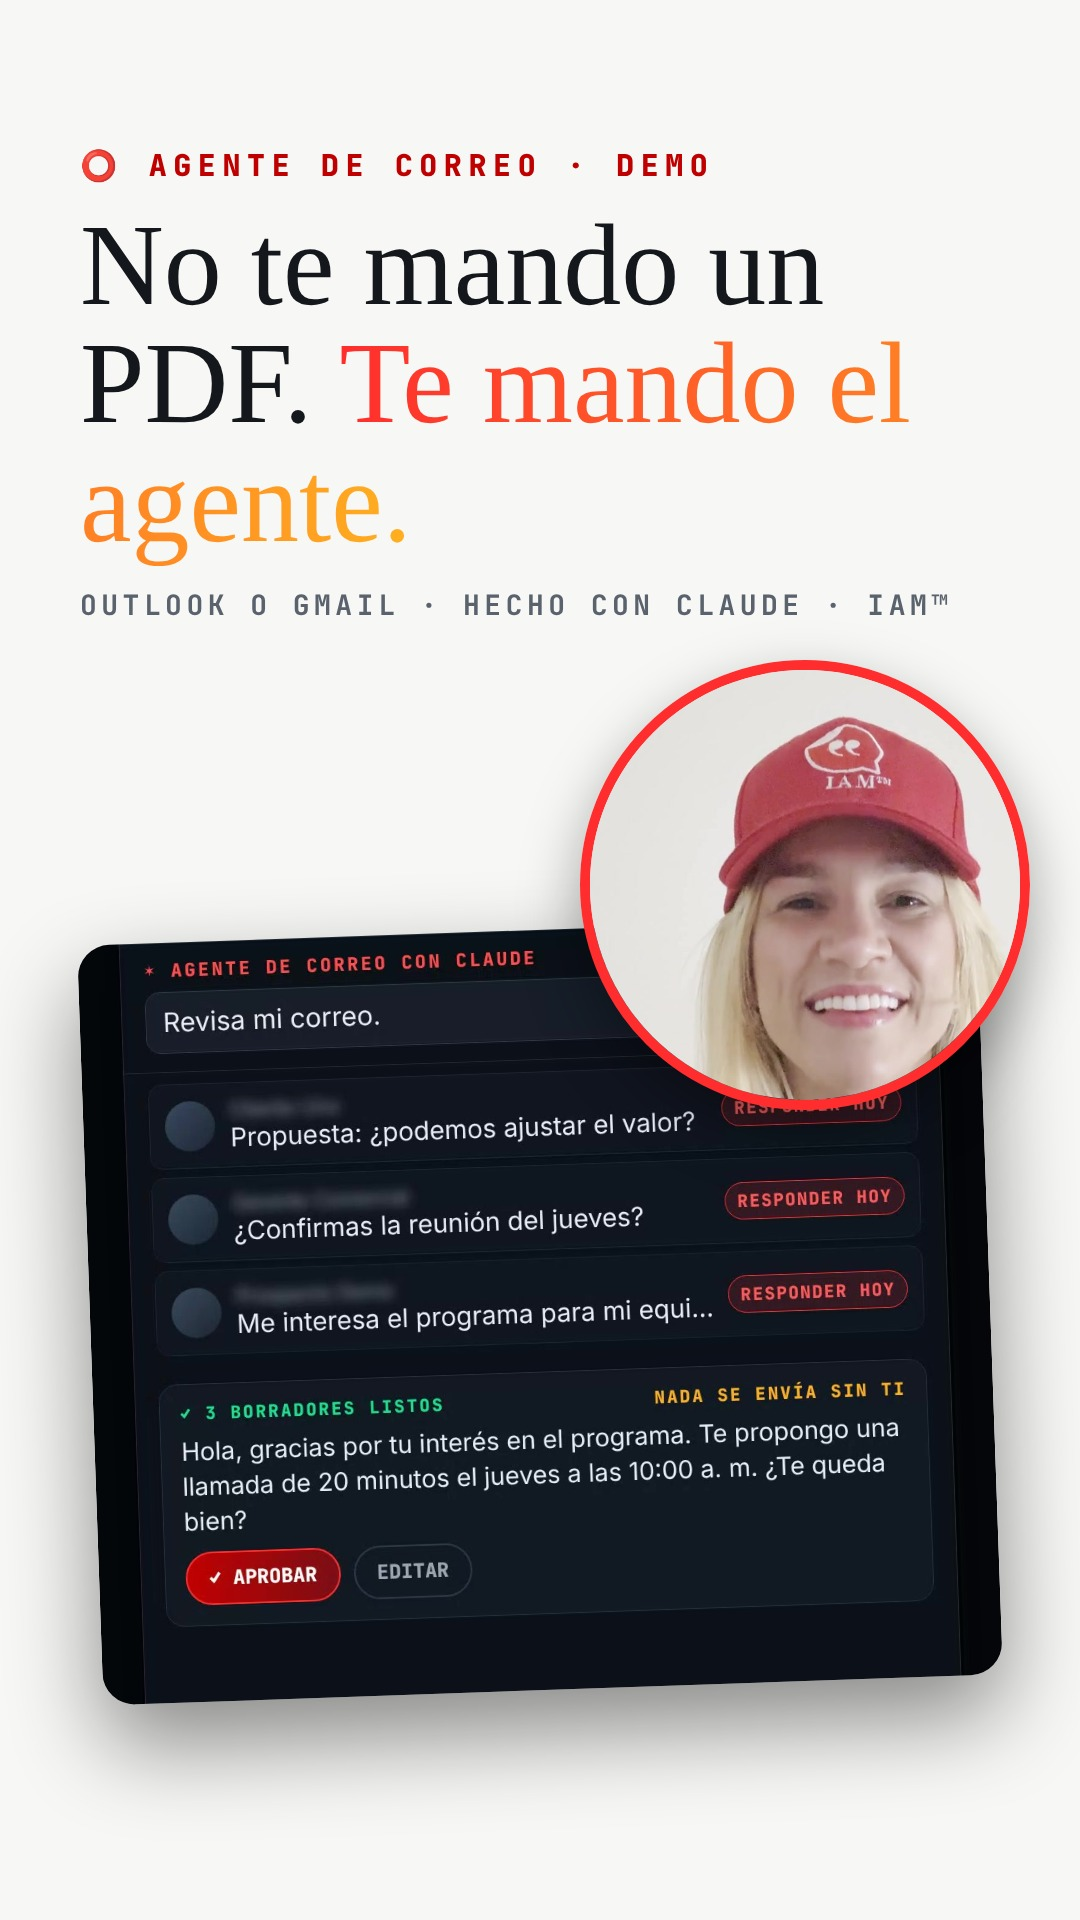
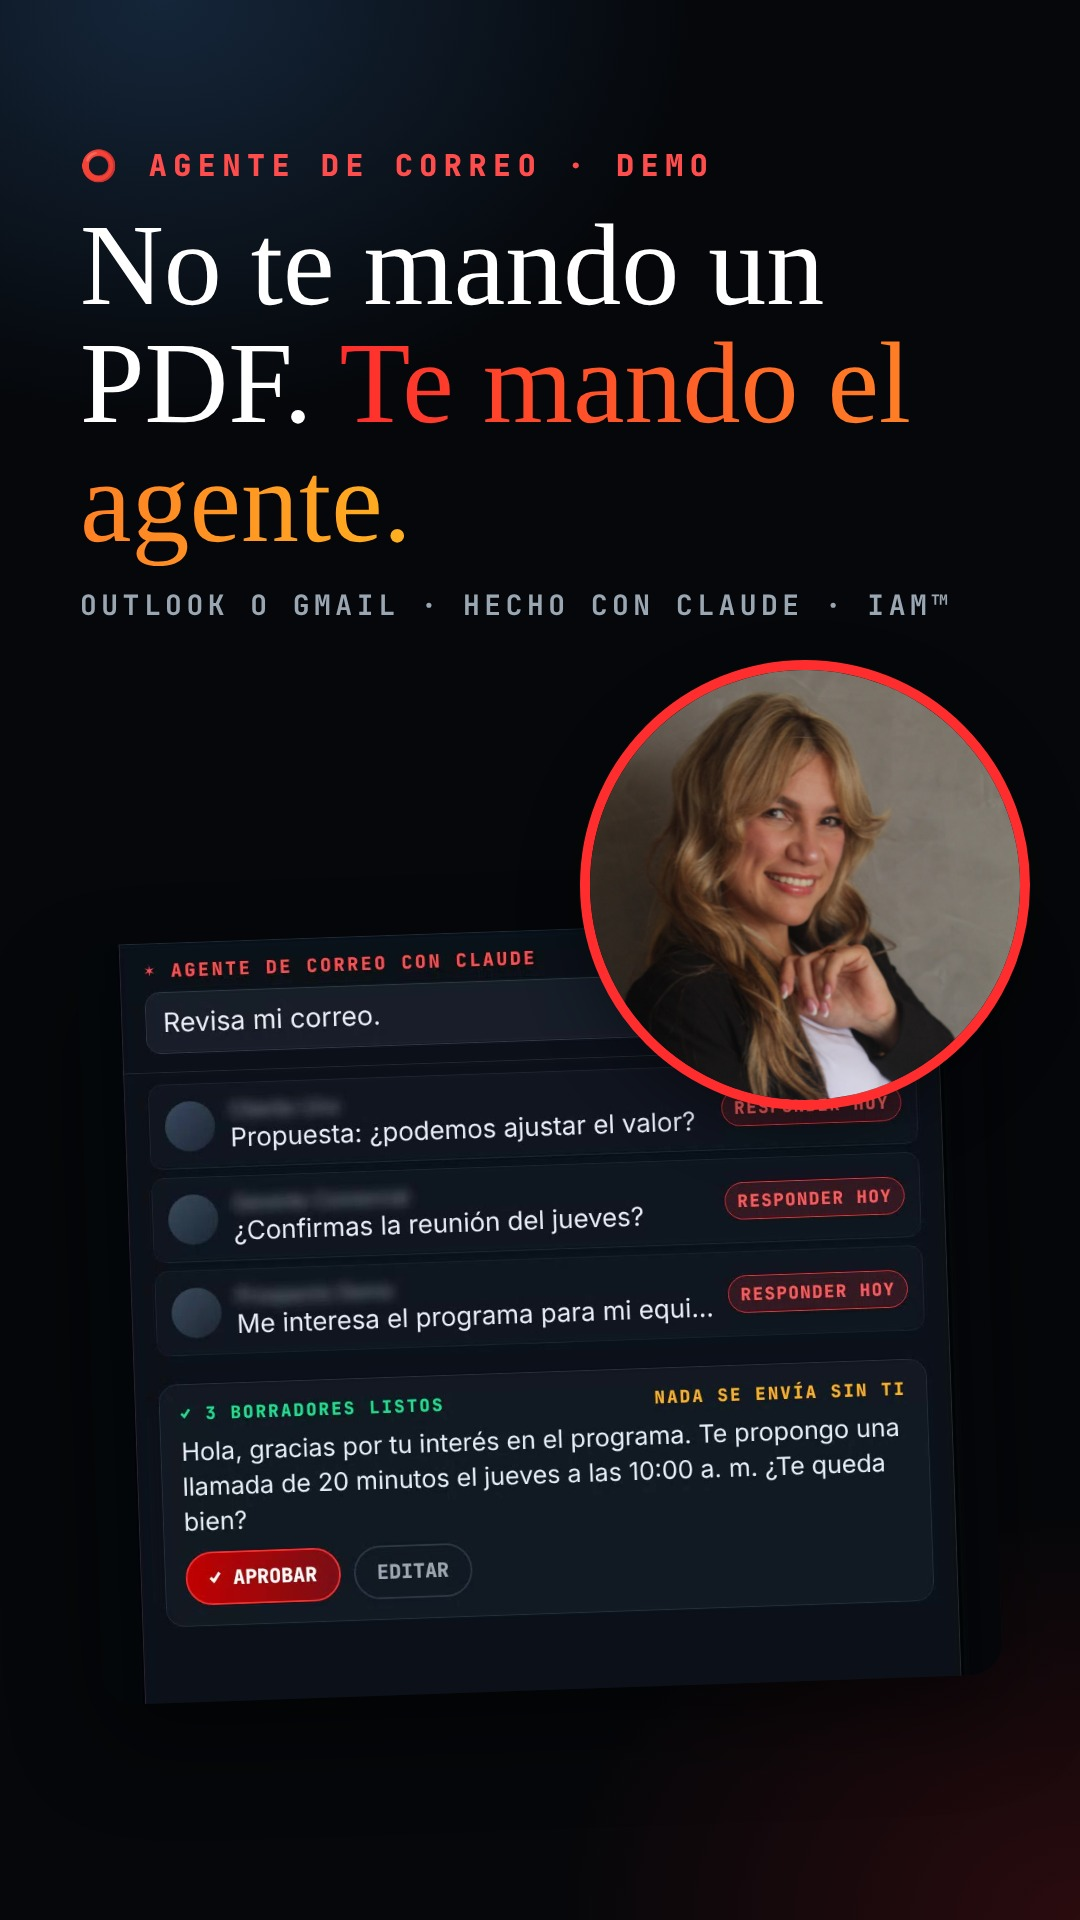
Portada CORREO: fondo oscuro y foto profesional de blazer negro para diferenciarla en el feed
Claude-Session: https://claude.ai/code/session_01NfWH1YnxdbRLc9ZrUJbHYq

diff --git a/estrategia/instagram/reel-agente-correo/cover.html b/estrategia/instagram/reel-agente-correo/cover.html
@@ -7,10 +7,10 @@ em{font-style:normal;background:linear-gradient(90deg,#ff2d2d,#ffb020);-webkit-b
 .s{font:700 28px/1 "JetBrains Mono";letter-spacing:.16em;margin-top:30px}
 .shot{position:absolute;left:90px;right:90px;border-radius:32px;overflow:hidden;box-shadow:0 40px 90px rgba(0,0,0,.45)}
 .shot img{display:block;width:100%}
-#c1{background:#f7f7f5;color:#14181d}
+#c1{background:radial-gradient(900px 700px at 15% 0%,#15263a 0,transparent 60%),radial-gradient(900px 700px at 100% 100%,#2a0b0e 0,transparent 60%),#05070a;color:#fff}
 #c2{background:radial-gradient(900px 700px at 15% 0%,#15263a 0,transparent 60%),radial-gradient(900px 700px at 100% 100%,#2a0b0e 0,transparent 60%),#05070a;color:#fff}
 </style></head><body>
-<div class="c" id="c1"><div style="position:absolute;top:150px;left:80px;right:80px"><p class="eye" style="color:#c00000">⭕ AGENTE DE CORREO · DEMO</p><h1 style="font-size:116px">No te mando un PDF. <em>Te mando el agente.</em></h1><p class="s" style="color:#5a636d">OUTLOOK O GMAIL · HECHO CON CLAUDE · IAM™</p></div>
+<div class="c" id="c1"><div style="position:absolute;top:150px;left:80px;right:80px"><p class="eye">⭕ AGENTE DE CORREO · DEMO</p><h1 style="font-size:116px">No te mando un PDF. <em>Te mando el agente.</em></h1><p class="s" style="color:#9aa6b2">OUTLOOK O GMAIL · HECHO CON CLAUDE · IAM™</p></div>
 <div class="shot" style="top:930px;height:760px;transform:rotate(-2deg)"><img src="f2.jpg" style="margin-top:-420px"></div>
 <div style="position:absolute;top:660px;right:50px;width:450px;height:450px;border-radius:50%;overflow:hidden;border:10px solid #ff2d2d;box-shadow:0 24px 60px rgba(0,0,0,.35);z-index:3"><img src="sandra.jpg" style="width:100%;height:100%;object-fit:cover"></div></div>
 <div class="c" id="c2"><div class="shot" style="top:120px;transform:rotate(2deg);height:900px"><img src="f2.jpg" style="margin-top:-400px"></div>
